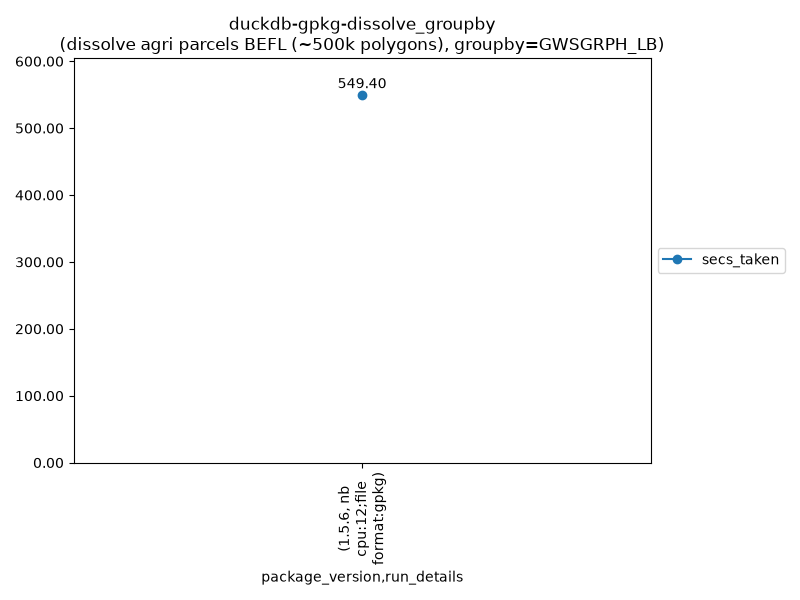
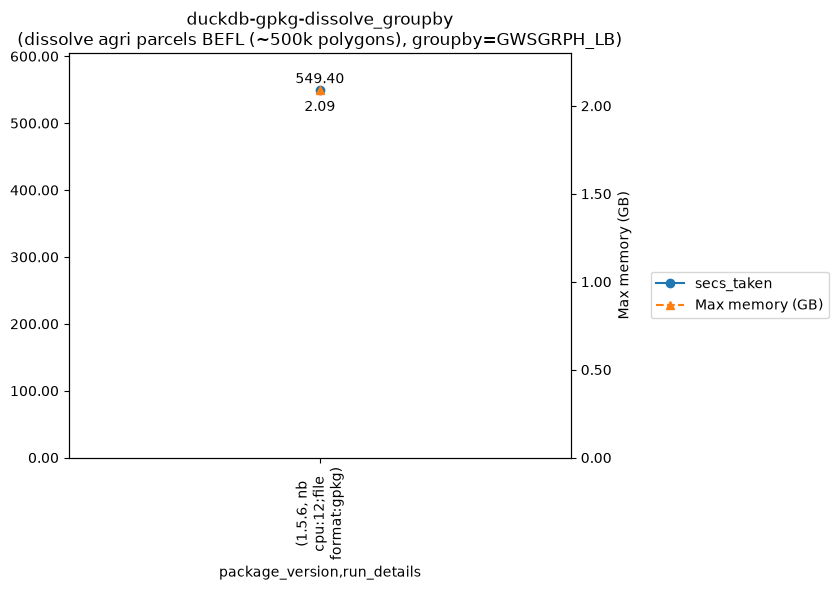
Add memory usage to detailed charts as well

diff --git a/reporter.py b/reporter.py
@@ -57,23 +57,35 @@ def generate_reports(results_path: Path, output_dir: Path) -> None:
                     f"{latest_run_datetime!r}, found {len(operation_descriptions)}."
                 )
             operation_descr = operation_descriptions.iloc[0]
-            package_operation_df = package_operation_df[
-                ["package_version", "run_details", "secs_taken"]
-            ]
+            detail_columns = ["package_version", "run_details", "secs_taken"]
+            if "max_memory_bytes" in package_operation_df.columns:
+                detail_columns.append("max_memory_bytes")
+            package_operation_df = package_operation_df[detail_columns]
             package_operation_df["run_details"] = package_operation_df[
                 "run_details"
             ].apply(format_run_details)
             package_operation_df = package_operation_df.set_index(
                 ["package_version", "run_details"]
             )
+            memory_df = None
+            if (
+                "max_memory_bytes" in package_operation_df.columns
+                and package_operation_df["max_memory_bytes"].notna().any()
+            ):
+                memory_df = (
+                    package_operation_df[["max_memory_bytes"]]
+                    .div(1_000_000_000)
+                    .rename(columns={"max_memory_bytes": "Max memory (GB)"})
+                )
             results_report_path = reports_package_dir / f"{package}_{operation}.png"
             save_chart(
-                df=package_operation_df,
+                df=package_operation_df[["secs_taken"]],
                 title=f"{package}-{operation}\n({operation_descr})",
                 size=(8, 6),
                 print_labels_on_points=True,
                 y_value_formatter="{0:.2f}",
                 output_path=results_report_path,
+                secondary_y_df=memory_df,
             )
 
     # Report for last version of each package+operation for comparison
@@ -168,10 +180,12 @@ def generate_reports(results_path: Path, output_dir: Path) -> None:
         )
 
 
-def save_chart(  # noqa: PLR0917
+def save_chart(
     df: pd.DataFrame,
     title: str,
     output_path: Path,
+    *,
+    secondary_y_df: pd.DataFrame | None = None,
     yscale: Literal["linear", "log", "symlog", "logit"] | None = None,
     y_value_formatter: str | None = None,
     print_labels_on_points: bool = False,
@@ -199,6 +213,7 @@ def save_chart(  # noqa: PLR0917
 
     Args:
         df (pd.DataFrame): The data to plot. The index should be the x axis values.
+        secondary_y_df (pd.DataFrame, optional): Data to plot on a secondary y axis.
         title (str): The title of the chart.
         output_path (Path): _description_
         yscale (Literal["linear", "log", "symlog", "logit"], optional): y scale to use.
@@ -239,6 +254,19 @@ def save_chart(  # noqa: PLR0917
         raise Exception(
             f"df has non-numeric columns, so cannot be plotted: {non_numeric_columns}"
         )
+    if secondary_y_df is not None and not secondary_y_df.index.equals(df.index):
+        raise ValueError("secondary_y_df must have the same index as df.")
+    if secondary_y_df is not None:
+        non_numeric_columns = [
+            column
+            for column in secondary_y_df.columns
+            if not pandas.api.types.is_numeric_dtype(secondary_y_df[column])
+        ]
+        if non_numeric_columns:
+            raise Exception(
+                "secondary_y_df has non-numeric columns, so cannot be plotted: "
+                f"{non_numeric_columns}"
+            )
     if y_value_limit is not None and (
         not math.isfinite(y_value_limit) or y_value_limit <= 0
     ):
@@ -258,7 +286,25 @@ def save_chart(  # noqa: PLR0917
     plot_df = df
     if y_value_limit is not None:
         plot_df = df.where(df <= y_value_limit)
-    plot_df.plot(ax=axs, kind=plot_kind, rot=rot, title=title, linestyle=linestyle)
+    plot_df.plot(
+        ax=axs,
+        kind=plot_kind,
+        rot=rot,
+        title=title,
+        linestyle=linestyle,
+        legend=False,
+    )
+    secondary_ax = None
+    if secondary_y_df is not None:
+        secondary_ax = axs.twinx()
+        secondary_y_df.plot(
+            ax=secondary_ax,
+            kind=plot_kind,
+            rot=rot,
+            linestyle="--",
+            legend=False,
+        )
+        secondary_ax.set_ylabel("Max memory (GB)")
     tick_positions = axs.get_xticks()
     tick_labels = [tick.get_text().replace("_", "\n") for tick in axs.get_xticklabels()]
     axs.set_xticks(tick_positions)
@@ -271,6 +317,13 @@ def save_chart(  # noqa: PLR0917
     if y_value_formatter is not None:
         axs.yaxis.set_major_formatter(plt.FuncFormatter(y_value_formatter.format))
         axs.yaxis.set_minor_formatter(plt.FuncFormatter(y_value_formatter.format))
+        if secondary_ax is not None:
+            secondary_ax.yaxis.set_major_formatter(
+                plt.FuncFormatter(y_value_formatter.format)
+            )
+            secondary_ax.yaxis.set_minor_formatter(
+                plt.FuncFormatter(y_value_formatter.format)
+            )
 
     # Show grid lines if specified
     if gridlines is not None:
@@ -321,6 +374,54 @@ def save_chart(  # noqa: PLR0917
                     fontweight="normal",
                 )
 
+    if secondary_ax is not None:
+        secondary_max_y_value = None
+        for series_index, line in enumerate(secondary_ax.get_lines()):
+            marker_index = (len(axs.get_lines()) + series_index) % len(markers)
+            line.set_marker(markers[marker_index])
+            line.set_color("tab:orange")
+            label_above_line = False
+
+            for index, row_fieldvalue in enumerate(
+                secondary_y_df.iloc[:, series_index]
+            ):
+                if pd.isna(row_fieldvalue):
+                    continue
+                if (
+                    secondary_max_y_value is None
+                    or row_fieldvalue > secondary_max_y_value
+                ):
+                    secondary_max_y_value = row_fieldvalue
+                if print_labels_on_points:
+                    if y_value_formatter is not None:
+                        text = y_value_formatter.format(row_fieldvalue)
+                    else:
+                        text = str(row_fieldvalue)
+                    if point_labels_to_right:
+                        xytext = (5, 0)
+                        horizontalalignment = "left"
+                    elif label_above_line:
+                        xytext = (0, 5)
+                        horizontalalignment = "center"
+                        label_above_line = False
+                    else:
+                        xytext = (0, -15)
+                        horizontalalignment = "center"
+                        label_above_line = True
+                    secondary_ax.annotate(
+                        text=text,
+                        xy=(index, row_fieldvalue),
+                        xytext=xytext,
+                        textcoords="offset points",
+                        ha=horizontalalignment,
+                        fontweight="normal",
+                    )
+
+        if secondary_max_y_value is not None and secondary_max_y_value > 0:
+            secondary_ax.set_ylim(bottom=0, top=secondary_max_y_value * 1.1)
+        else:
+            secondary_ax.set_ylim(bottom=0, top=1)
+
     # Set bottom and top values for y axis
     has_overflow = y_value_limit is not None and bool(df.gt(y_value_limit).any().any())
     if max_y_value is not None:
@@ -329,11 +430,11 @@ def save_chart(  # noqa: PLR0917
         max_y_value = y_value_limit
     if max_y_value is not None and math.isnan(max_y_value) is False:
         if yscale == "log":
-            plt.ylim(top=max_y_value)
+            axs.set_ylim(top=max_y_value)
         else:
-            plt.ylim(bottom=0, top=max_y_value)
+            axs.set_ylim(bottom=0, top=max_y_value)
     elif yscale != "log":
-        plt.ylim(bottom=0)
+        axs.set_ylim(bottom=0)
 
     if has_overflow:
         overflow_count_by_x: dict[int, int] = {}
@@ -384,21 +485,37 @@ def save_chart(  # noqa: PLR0917
                         annotation_clip=False,
                     )
 
-    # Set legend to the right of the chart
-    plt.legend(loc="center left", bbox_to_anchor=(1, 0.5))
-    plt.tight_layout()
+    # Reserve room for one legend outside the plot area.
+    fig.tight_layout()
+    fig.subplots_adjust(right=0.72)
+    lines, labels = axs.get_legend_handles_labels()
+    if secondary_ax is not None:
+        secondary_lines, secondary_labels = secondary_ax.get_legend_handles_labels()
+        lines += secondary_lines
+        labels += secondary_labels
+    fig.canvas.draw()
+    renderer = fig.canvas.get_renderer()
+    axes_right = max(axis.get_tightbbox(renderer).x1 for axis in fig.axes)
+    legend_left = fig.transFigure.inverted().transform((axes_right + 12, 0))[0]
+    axs.legend(
+        lines,
+        labels,
+        loc="center left",
+        bbox_to_anchor=(legend_left, 0.5),
+        bbox_transform=fig.transFigure,
+    )
     if has_overflow:
         fig.subplots_adjust(top=overflow_axes_top)
         axs.set_title(axs.get_title(), y=1.15, pad=3)
 
     # Save the file if it doesn't exist yet
     if not output_path.exists():
-        fig.savefig(str(output_path))
+        fig.savefig(str(output_path), bbox_inches="tight")
     else:
         # If it exists already, only save it if it has changed
         with tempfile.TemporaryDirectory() as tmp_dir:
             tmp_output_path = Path(tmp_dir) / output_path.name
-            fig.savefig(tmp_output_path)
+            fig.savefig(tmp_output_path, bbox_inches="tight")
             img_new = np.asarray(Image.open(tmp_output_path))
             img_old = np.asarray(Image.open(output_path))
             if not np.array_equal(img_new, img_old):
